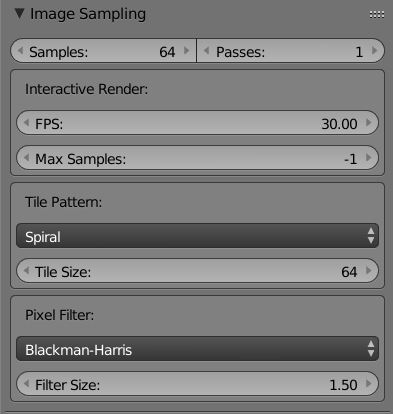
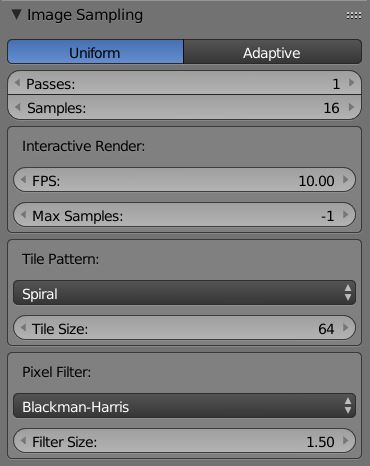
Doc updates

diff --git a/docs/conf.py b/docs/conf.py
@@ -27,9 +27,9 @@ copyright = '2010-2018, The appleseedhq Organization'
 author = 'The appleseedhq Organization'
 
 # The short X.Y version
-version = '0.9.0-beta'
+version = '2.0.0-beta'
 # The full version, including alpha/beta/rc tags
-release = '0.9.0-beta'
+release = '2.0.0-beta'
 
 
 # -- General configuration ---------------------------------------------------
@@ -102,7 +102,6 @@ html_theme_options = {
     'navbar_links': [
         ("Features", "features"),
         ("Installation", "installation"),
-        ("Quickstart", "quickstart"),
         ("Reference", "reference"),
         ("About", "about"),
         ("Tutorials", "tutorials"),

diff --git a/docs/osl/osl.rst b/docs/osl/osl.rst
@@ -9,15 +9,15 @@ What is it?
 
 How does it work with appleseed?
 --------------------------------
-	Since the beginning appleseed has had its own native shading system (henceforth the ‘built in system’, or ‘BIS’).  While this system worked well enough, it was limited to defining material surfaces and optionally assigning UV mapped textures to them.  That was it.  It couldn’t do any kind of procedural patterns, coordinate manipulation, fancy BSDF mixing, or any of the other utility functions that were needed for a production renderer.  Instead of expanding the BIS system with these features, the decision was made to integrate OSL instead, as it is fully capable of all these features and is developed and hosted by a major visual effects company.  As of the current release (1.0), the BIS system is no longer exposed in blenderseed.
+	Since the beginning appleseed has had its own native shading system (henceforth the ‘internal' system).  While this system works well enough, it was limited to defining material surfaces and optionally assigning UV mapped textures to them.  That was it.  It couldn’t do any kind of procedural patterns, coordinate manipulation, fancy BSDF mixing, or any of the other utility functions that were needed for a production renderer.  Instead of expanding the BIS system with these features, the decision was made to integrate OSL instead, as it is fully capable of all these features and is developed and hosted by a major visual effects company.  As of the current release (2.0), the internal shading system is no longer exposed in blenderseed.
 
 How do I use it in blenderseed?
 -------------------------------
-	OSL is available in conjunction with the node editor in Blender.  When a material is created, by default it will add an OSL node tree and link to it.  If you have an open node editor you can use the 'view nodetree' button under the material preview to switch the node view to the current material.  You can add nodes to the editor using Shift+A.  You can add nodes from the different categories to build up your material, but always make sure the final node is an as_closure2surface node, as that is required to export the material properly.
+	OSL is available in conjunction with the node editor in Blender.  When a material is created, by default it will add an OSL node tree and link to it.  If you have an open node editor it will automatically update to show the active material tree.  You can add nodes to the editor using Shift+A.  You can add nodes from the different categories to build up your material, but always make sure the final node is an as_closure2surface node, as that is required to export the material properly.
 
 Where does the OSL shading system get the nodes from?
 -----------------------------------------------------
-	The OSL shaders are found in one of two directories in the appleseed download, “shaders/appleseed” and “shaders/blenderseed”.  When blenderseed starts up it scans those two directories and builds the nodes dynamically based on the parameters contained inside the .oso files.  When the scene is rendered the output file will point to those shaders and describe the connections between them.  The shaders themselves are not copied or moved.
+	The OSL shaders are found in the “shaders” directory of the appleseed folder.  When blenderseed starts up it scans this directory and builds the nodes dynamically based on the parameters contained inside the .oso files.  When the scene is rendered the output file will point to those shaders and describe the connections between them.  The shaders themselves are not copied or moved unless the scene is exported.  In this case the shaders are copied to the export directory.
 
 Textures with OSL
 -----------------
@@ -27,7 +27,11 @@ How do I convert textures?
 --------------------------
 	Textures can be converted to .tx files using the :ref:`texture converter<label_tex_conv>` panel in the material tab.
 
+Can I use OSL shaders from third parties?
+-----------------------------------------
+    Yes, with a few exceptions.  OSL shaders transfer their results to the host renderer BSDF's by using an items called a 'closure'.  While OSL suggests a limited set of 'default' closures, many renderers either don't implement them or add their own.  OSL shaders that use closures may or may not work with a different renderer.  If the OSL shader is being used for pattern generation or processing, it will usually work just fine with another renderer.  The only drawback is that third party shaders may not have the metadata that blenderseed uses to construct its node UI.
+
 Can I write my own shaders?
 ---------------------------
-	Absolutely.  OSL shaders can be written in any text editor and compiled into .oso files using the oslc utility that’s included with appleseed.  The .oso file can then be placed into the shaders/blenderseed folder and it will be scanned and added into the available nodes during the next startup.
+	Absolutely.  OSL shaders can be written in any text editor and compiled into .oso files using the oslc utility that’s included with appleseed.  Once you've compiled the shader, you can put it into the "shaders" directory or add the folder name to the APPLESEED_SEARCHPATH environment variable.
 	If you choose to write your own OSL shader, there are several formatting rules and :ref:`metadata<label_osl_metadata>` tags that should be used in order to properly build the node’s UI and category.

diff --git a/docs/panels/render/sampling.rst b/docs/panels/render/sampling.rst
@@ -5,29 +5,35 @@ Sampling
 
 |
 
-- Samples
-    The number of samples per pixel, per pass.
-- Passes
-    The number of times the renderer will cycles around the pixels of the image. [#f2]_ [#f3]_
-- FPS
-    The frame rate at which the interactive render will run.
-- Max Samples
-    The maximum number of samples per pixel that will be taken in interactive mode before rendering ends.
-- Tile Pattern
-    This determines the order in which the tiles are processed during rendering.
-- Tile Size
-    Determines the width and height of the 'chunks' (or tiles) the image is split into for rendering.
-- Filer
-    This defines the filter method appleseed uses to combine pixels with their neighbors.
-- Filter Size
-    The size of the kernel used during filtering.
+- Sampler
+    - Uniform: Every pixel is sampled the same number of times.
+    - Adaptive: Sampling is based on whether or not a tile has reached a certain noise threshold.
 
-- Force Antialiasing
-	Force Antialiasing is only relevant when the number of samples is set to 1: when Force Antialiasing is enabled samples are placed randomly inside pixels; when it is disabled, samples are placed at the center of the pixels.
-- Decorrelate Pixels
-	Avoids correlation patterns at the expense of slightly more sampling noise.
+- Passes
+    The number of times the sampler will loop over all the pixels in the image. [#f1]_ [#f2]_
+
+- Uniform Sampler
+    - Samples: The number of samples taken per pixel per pass.
+
+- Adaptive Sampler
+    - Batch Size: The number of pixel samples taken in between noise evaluations.
+    - Max Samples: The total number of samples that can be taken per pixel per pass.
+    - Noise Threshold: The level of noise that is acceptable in the final image.  A pixel will render until it hits this limit or the max samples.
+    - Uniform Samples: The number of uniform samples that are taken before adaptive sampling kicks in.  This is necessary to ake sure fine details are captured in the image before noise evaluations start.
+
+- Interactive Render
+    - FPS: The maximum framerate of the interactive render session.
+    - Max Samples: The number of samples taken before rendering halts in interactive mode.
+
+- Tile Pattern
+    - Pattern: The order in which tiles are selected during rendering.  Pick anything other that random.
+    - Tile Size: This is the size of the tiles that the image is broken into for rendering.
+
+- Pixel Filter:
+    - Filter: This is the type of filter used for image reconstruction.
+    - Filter Size: The size of the filter kernel.
 
 .. rubric:: Footnotes
 
-.. [#f2] Setting the passes higher than 1 and lowering the number of samples enables a featured called 'progressive rendering'.  The image will appear in its entirety after one pass and noise will be subsequently reduced with each addtional pass.
-.. [#f3] Progressive rendering is slower than single pass rendering, however it does have its advantages.  If you are not certain how many samples will be needed to create a clean image, you can set the samples to a low number and the passes number to a higher one.  When the image has reached an acceptable level of quality the render can be aborted.
+.. [#f1] Setting the passes higher than 1 and lowering the number of samples enables a featured called 'progressive rendering'.  The image will appear in its entirety after one pass and noise will be subsequently reduced with each addtional pass.
+.. [#f2] Progressive rendering is slower than single pass rendering, however it does have its advantages.  If you are not certain how many samples will be needed to create a clean image, you can set the samples to a low number and the passes number to a higher one.  When the image has reached an acceptable level of quality the render can be aborted.

diff --git a/docs/panels/render/lighting.rst b/docs/panels/render/lighting.rst
@@ -1,39 +1,38 @@
 Lighting
 ========
 
-- Engine:
-	This sets the lighting engine used during the render.
-- Light Sampler:
-	This sets how lights in the scene are sampled.
+- Lighting:
+    This sets the lighting engine used during the render.
 
 Path Tracing Engine
 -------------------
 
 .. image:: /_static/screenshots/render_panels/lighting.JPG
 
-|
-
 - Record Light Paths:
-	This instructs appleseed to store information on the path that a light ray travels.  It can then be retrieved and visualized in appleseed.studio.  See `here <https://vimeo.com/263532331>`_ for a demonstration of this feature.
-
-- Next Event Estimation:
-	Whether or not light sources are directly sampled in addition to being hit by indirect rays.
-- Direct Lighting:
-	Whether or not discreet light sources (point, spotlight and Sun) are directly sampled at each surface hit point.
+    This instructs appleseed to store information on the path that a light ray travels.  It can then be retrieved and visualized in appleseed.studio.  See `here <https://vimeo.com/263532331>`_ for a demonstration of this feature.
+- Directly Sample Lights:
+    Whether or not discreet light sources (point, spotlight and Sun) are directly sampled at each surface hit point.
+- Samples:
+    How many light paths are sent to the light at every surface hit.  Raising this can lower the variance on large area lamps.
 - Low Light Threshold:
-	This prevents shadow rays from being traced to lights that do not contribute significant illumination to the surface hit point.  Higher numbers can lead to a decrease in lighting quality but an increase in convergence speed.
-- Image Based Lighting:
-	Whether or not an environment map can contribute lighting to the scene.
+    This prevents shadow rays from being traced to lights that do not contribute significant illumination to the surface hit point.  Higher numbers can lead to a decrease in lighting quality but an increase in convergence speed.
+- Environment Emits Light:
+    Whether or not an environment map can contribute lighting to the scene.
+- Samples:
+    How many samples are taken of the environment light at every surface hit.
 - Caustics:
-	Whether or not caustic effects are rendered.
+    Whether or not caustic effects are rendered.
+- Clamp Roughness:
+    Raises the roughness of materials on hits by indirect rays.  This can lower variance for caustics and strong specular reflections.
 - Bounces:
-	- Global: Sets a maximum number of bounces for a light ray.
-	- Diffuse: Sets a maximum number of diffuse bounces a ray can make.
-	- Glossy: Sets the number of glossy bounces a ray can make.
-	- Specular: Sets the number of specular bounces a ray can make.
-	- Max Ray Intensity: Sets the maximum brightness an indirect ray can contribute to the scene.  Lowering this can remove fireflies at the expense of accurate lighting.
+    - Global: Sets a maximum number of bounces for a light ray.
+    - Diffuse: Sets a maximum number of diffuse bounces a ray can make.
+    - Glossy: Sets the number of glossy bounces a ray can make.
+    - Specular: Sets the number of specular bounces a ray can make.
+    - Max Ray Intensity: Sets the maximum brightness an indirect ray can contribute to the scene.  Lowering this can remove fireflies at the expense of accurate lighting.
 - Russian Roulette Start Bounce:
-	Sets the bounce after which Russian Roulette will be used to terminate rays that are not expected to contribute much to the final image.  Lowering this can increase noise but speed up rendering.
+    Sets the bounce after which Russian Roulette will be used to terminate rays that are not expected to contribute much to the final image.  Lowering this can increase noise but speed up rendering.
 
 SPPM Engine
 -----------

diff --git a/docs/features.rst b/docs/features.rst
@@ -1,38 +1,38 @@
 Features
 ========
 
-New in 1.0
+New in 2.0
 ----------
 
-    * Completely redesigned export/render interface that leverages applseed's Python bindings
+    * Completely redesigned export/render interface using applseed's Python bindings
     * Interactive rendering
+    * Full OSL materials
     * Area lamps
     * Support for linked objects and groups
+    * Archive assemblies
+    * Post processing stages
     * appleseed now bundled directly with blenderseed (no more configuration woes)
-    * Number of motion segments for camera, obejct, and deformation blur
+    * Number of motion segments for camera, object, and deformation blur
 
 Supported Features
 ------------------
 
     * Pinhole, thin lens (supports physically correct depth of field), orthographic and spherical camera models
     * Camera, transformation and deformation motion blur
-    * Interactive rendering
-    * Arbitrary segments for motion blur
-    * Translation of Blender geometry, including linked libraries
     * OSL shading
+    * Denoiser integration
     * Integrated .tx texture converter
     * Render results directly into Blender or export scene files (including animations) for later rendering
     * AOVs
-    * Alpha mapping (object and material based)
-    * Point, directional, sun and area lights
-    * Spot lights (supports textures)
+    * Alpha mapping (object based)
+    * Point, directional, area and sun lamps
+    * Spot lights (supports texturing)
     * Physical sun/sky
-    * Gradient, constant, mirror ball map and latitude-longitude map environment models
+    * Gradient, constant, mirror ball and latitude-longitude map environment models
     * Path tracing and SPPM lighting engines
 
 Planned Features
 --------------------
 
-    * Hair export
-    * Archive assemblies and instances
     * Dynamic OSL script node
+    * OSL volume rendering (once appleseed supports it)

diff --git a/docs/panels/render/denoiser.rst b/docs/panels/render/denoiser.rst
@@ -10,11 +10,11 @@ Denoiser
         Denoising will run after a render completes
     - Write Outputs:
         The render will write out several multilayer EXR files that can then be denoised at a later time using the denoise utility.  The render itself will not be denoised
-    - Prefilter Spikes:
-        This filter attempts to remove fireflies (overly bright pixels) from the image before denoising
-    - Spike Threshold:
-        How bright a pixel has to be compared to its neighbors to be considered a spike
-    - Patch Distance:
-        This controls the overall level of denoising that will be applied.  Raising this too high can lead to a blurry image
-    - Denoise Scales:
-        This sets how many scale levels are used to remove low frequency noise from the image
+- Prefilter Spikes:
+    This filter attempts to remove fireflies (overly bright pixels) from the image before denoising
+- Spike Threshold:
+    How bright a pixel has to be compared to its neighbors to be considered a spike
+- Patch Distance:
+    This controls the overall level of denoising that will be applied.  Raising this too high can lead to a blurry image
+- Denoise Scales:
+    This sets how many scale levels are used to remove low frequency noise from the image

diff --git a/docs/about.rst b/docs/about.rst
@@ -1,15 +1,13 @@
 About blenderseed
 =================
 
-The orginal appleseed integration into blender was written by François Beaune when appleseed was in an alpha state. It was a primitive plugin, matching an equally primitive (at the time) renderer.  Over the next several years appleseed grew and improved in leaps and bounds, and blenderseed has grown along with it thanks to the dedication and efforts of many volunteer authors:
+The original appleseed integration into blender was written by François Beaune when appleseed was in an alpha state. It was a primitive plugin, matching an equally primitive (at the time) renderer.  Over the next several years appleseed grew and improved in leaps and bounds, and blenderseed has grown along with it thanks to the dedication and efforts of many volunteer authors:
 
-	- Project Lead: Luke Kliber
-
-	- Contributing Authors:
-		- François Beaune
-		- Luke Kliber
-		- Jonathan Dent
-		- Joel Daniels
-		- Esteban Tovagliari
-		- Jasper van Nieuwenhuizen
-		- Petra Gospodnetic
+    - Contributing Authors:
+        - François Beaune
+        - Joel Daniels
+        - Jonathan Dent
+        - Petra Gospodnetic
+        - Luke Kliber
+        - Jasper van Nieuwenhuizen
+        - Esteban Tovagliari

diff --git a/docs/installation.rst b/docs/installation.rst
@@ -23,7 +23,7 @@ Configure
 	Select "appleseed" from the render dropdown selector.
 
 Using Development Versions of blenderseed
-	If you want access to cutting edge features, you can also download directly from the master branch (or any other visible branches).  Any downloads will have a suffix of *'-branch name'* that needs to be removed before it will work.  Be aware that new or under development features may require up to date build of appleseed itself, and this is not included with direct branch downloads.
+	If you want access to cutting edge features, you can also download directly from the master branch (or any other visible branches).  Any downloads will have a suffix of *'-branch name'* that needs to be removed before it will work.  Be aware that new or under development features may require an up to date build of appleseed itself, and this is not included with direct branch downloads.
 
 Using Development Versions of appleseed
 	While appleseed is packaged with all official releases, external versions of it may be used with blenderseed.  To do so, set the following environment variables before launching Blender (Windows only):

diff --git a/docs/panels/render/motion_blur.rst b/docs/panels/render/motion_blur.rst
@@ -5,16 +5,20 @@ Motion Blur
 
 |
 
-- Shutter Open
-	This is when the shutter opens in relation to the current frame.  '0' opens on the beginning of the frame.
-- Shutter Close
-	This is when the shutter closes in relation to the current frame.  '1' shuts at the end of the frame. [#f1]_
+- Shutter Open Begin
+    This is when the shutter begins to open in relation to the current frame.  '0' opens on the beginning of the frame.
+- Shutter Open End
+    This is when the shutter is fully open
+- Shutter Close Begin
+    This is when the shutter begins to close in relation to the current frame. [#f1]_
+- Shutter Close End
+    This is when the shutter is fully closed.
 - Camera Blur
-	Enables blur caused by motion of the camera.
+    Enables blur caused by motion of the camera.
 - Object Blur
-	Enables blur caused by the motion (translation, rotation, or scaling) of an object.
+    Enables blur caused by the motion (translation, rotation, or scaling) of an object.
 - Deformation Blur
-	Enables blur caused by an object changing shape (deforming)
+    Enables blur caused by an object changing shape (deforming)
 
 .. rubric:: Footnotes:
 

diff --git a/docs/osl/osl_metadata.rst b/docs/osl/osl_metadata.rst
@@ -6,7 +6,7 @@ OSL Metadata
 When blenderseed scans an OSL shader it looks for several specific metadata tags that can be attached to a shader or parameter.  This metadata is used to populate the node interface in Blender with buttons, sockets, labels, and the range a value can be.  While this metadata is not essential to the shader execution itself, it is essential for making the node usable.
 
 - Shader Metadata:  This metadata is used to describe the shader as a whole.
-	-  string node_name
+	- string node_name
 		This is the name of the node.  If it is not used the name of the OSL file will be used.
 	- string classification
 		This tells blenderseed what the shader is.  Options are:

diff --git a/docs/panels/material/material_panel.rst b/docs/panels/material/material_panel.rst
@@ -11,7 +11,5 @@ Material Panel
     You can see a preview of the material here.
 - Preview Quality:
     This allows a user to set the sample count of the preview window.  Higher numbers will have longer render times.
-- View Nodetree:
-    If you have a node editor window open, pressing this button will bring up the node tree for this material.
 - Lighting Samples:
     Raising this number may resolve render noise by raising the number of direct lighting samples.

diff --git a/docs/panels/render/system.rst b/docs/panels/render/system.rst
@@ -11,5 +11,3 @@ General
     Select this to replace all the shading in a scene with the selected option.  Useful for troubleshooting scene issues.
 - Texture Cache
     Sets the size of the cache used for storing textures.  Raising this will increase memory usage but may help speed up rendering.
-- Render Stamp
-    This can be used to superimpose text on the final render.  The text can be completely customized with numerous performance statistics.
